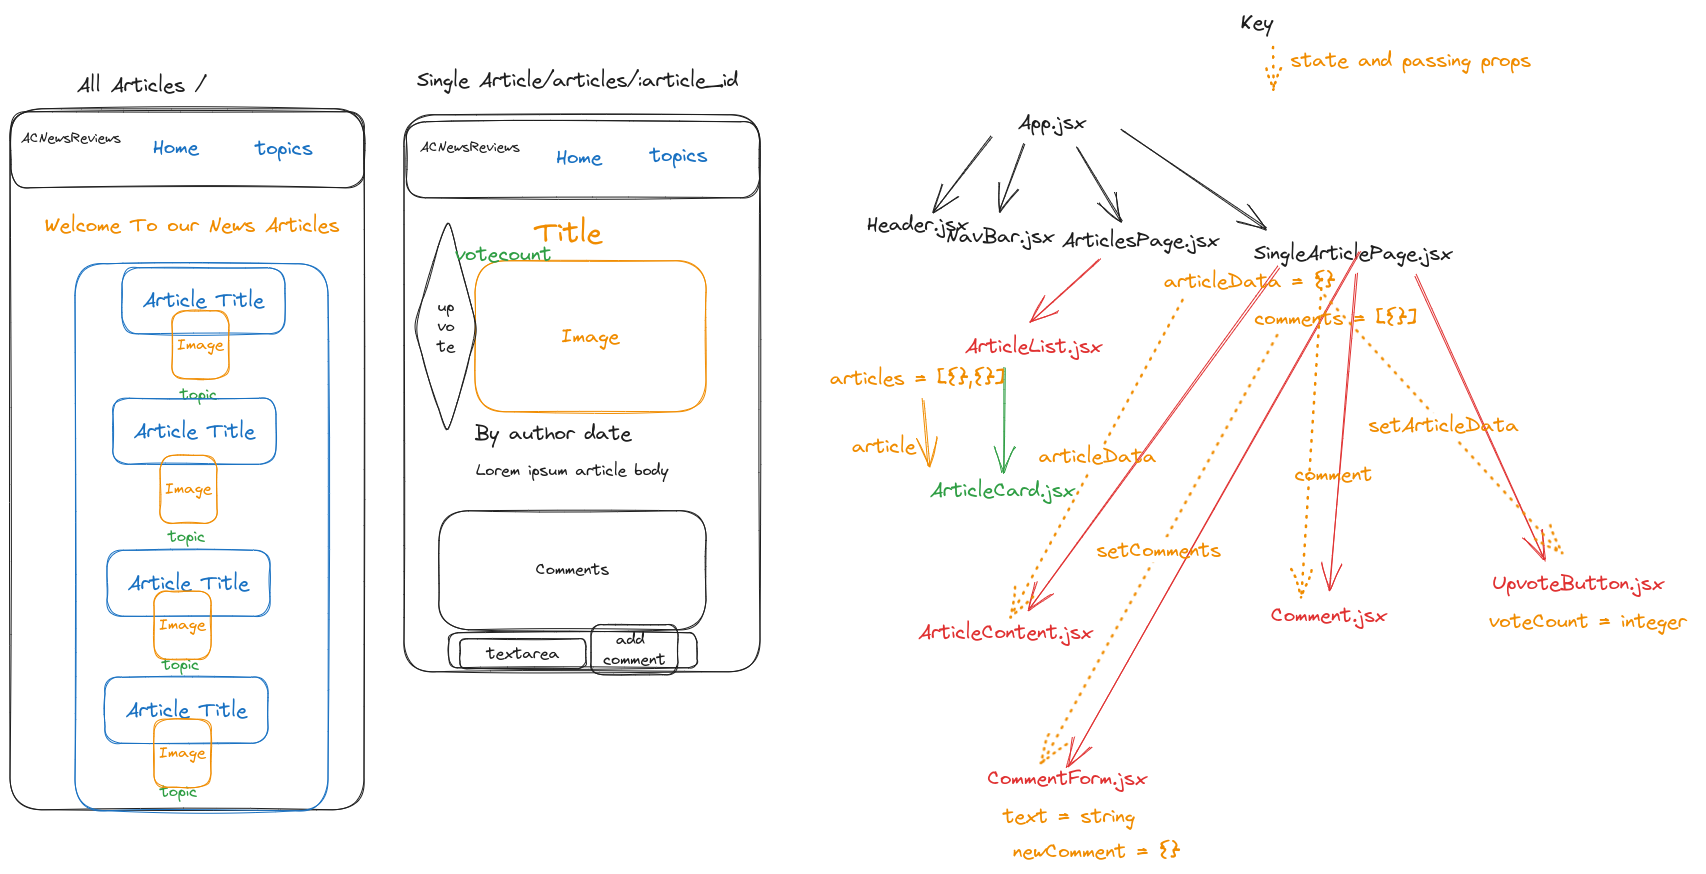
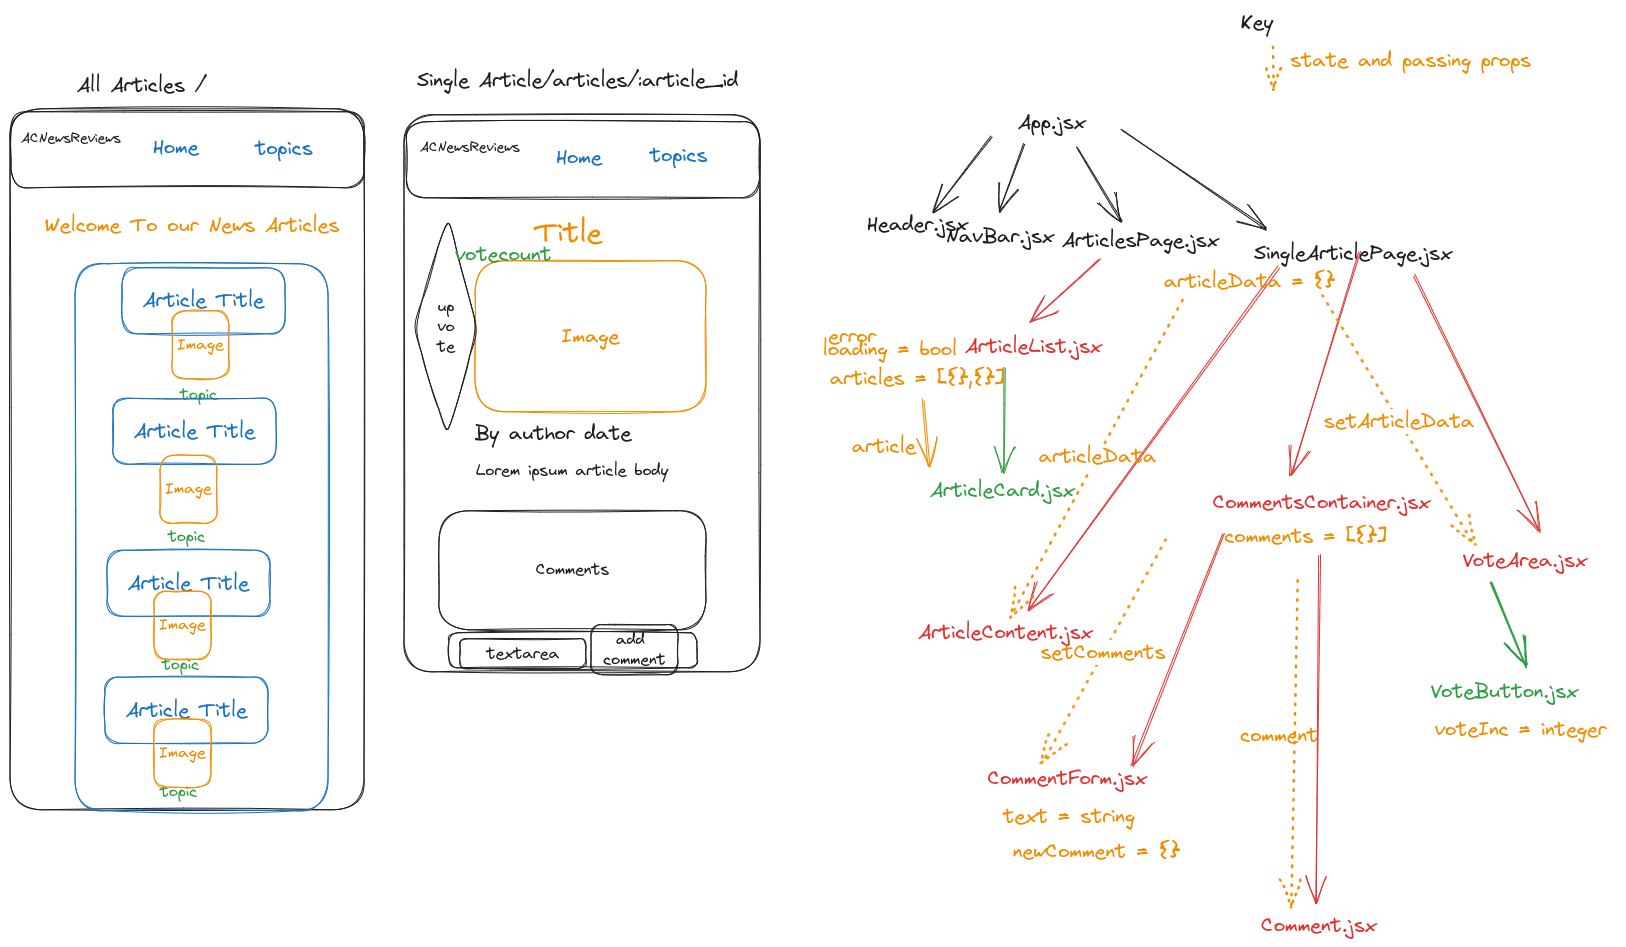
Updated plan to account for 2 buttons extracted into own component. Component files created.

diff --git a/src/components/article-components/VoteButton.jsx b/src/components/article-components/VoteButton.jsx
@@ -1,0 +1,3 @@
+export const VoteButton = ({increment}) => {
+
+}

diff --git a/src/components/article-components/VoteArea.jsx b/src/components/article-components/VoteArea.jsx
@@ -1,0 +1,3 @@
+export const VoteArea = () => {
+    
+}
